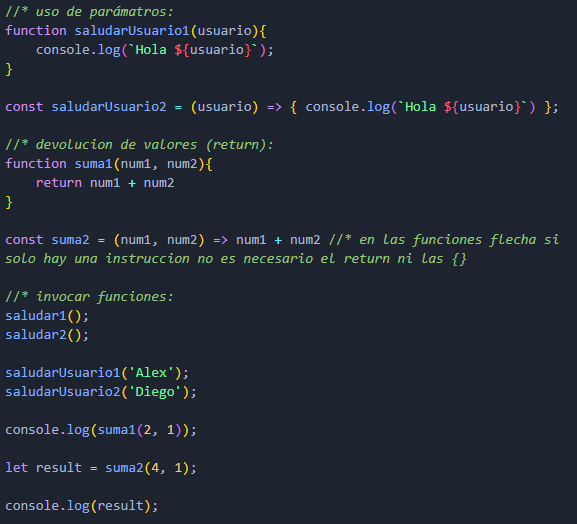
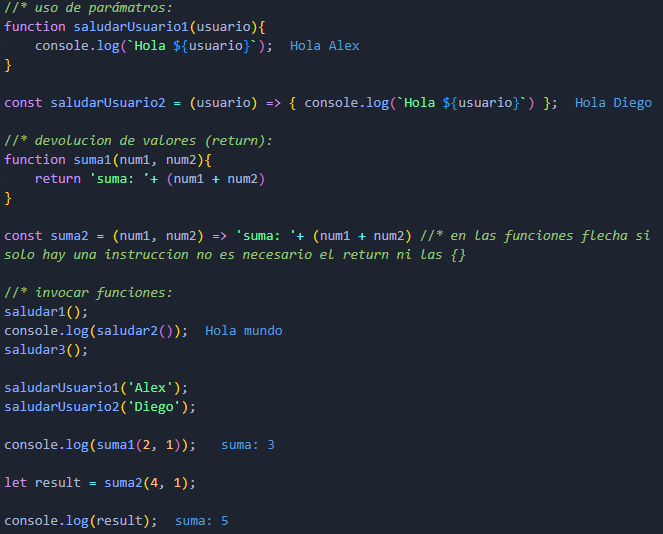
JS funciones

diff --git a/JavaScript/POO.html b/JavaScript/POO.html
@@ -37,9 +37,9 @@
                 <li>Polimorfismo.</li>
             </ul>
             <h3 class="titulo3">Clases:</h3>
-            <p>Son plantillas/modelos sobre las cuales se pueden crear objetos nuevos. Estas inician con mayúsculas y deben tener una funcion constructor, la cual contiene los parámetros mínimos que necesita un objeto para existir y asi poder dar un estado inicial a los objetos creados a partir de la clase.</p>
+            <p>Son plantillas/modelos sobre las cuales se pueden crear objetos nuevos. Estas inician con mayúsculas y deben tener una función constructor, la cual contiene los parámetros mínimos que necesita un objeto para existir y asi poder dar un estado inicial a los objetos creados a partir de la clase.</p>
             <h4 class="titulo4">Propiedades:</h4>
-            <p>Son los atributos o características de los objetos. Estas se definen tanto en los parámetros del constructor como dentro de la misma funcion para así inicializar los objetos. Tambien se pueden añadir propiedades que no esten en los parámetros pero siempre utilizando this para referenciar al objeto.</p>
+            <p>Son los atributos o características de los objetos. Estas se definen tanto en los parámetros del constructor como dentro de la misma función para así inicializar los objetos. Tambien se pueden añadir propiedades que no esten en los parámetros pero siempre utilizando this para referenciar al objeto.</p>
             <img src="../assets/images/POOJS4.webp" alt="Ejemplo clase" class="img">
             <h4 class="titulo4">Métodos:</h4>
             <p>Se denomina métodos a las funciones asociadas a los comportamientos o acciones que realizan los objetos.</p>
@@ -53,16 +53,31 @@
             <h4 class="titulo4">Mediante clases usando new:</h4>
             <img src="../assets/images/POOJS6.webp" alt="ejemplo objetos 2" class="img">
             <h3 class="titulo3">Funciones o métodos:</h3>
-            <h4 class="titulo4">Sintaxis:</h4>
-            <img src="../assets/images/POOJS2.webp" alt="Sintaxis funciones" class="img">
-            <p>Son fragmentos de código que se escriben para ejecutar una tarea y no vovler a escribir el mismo código más de una vez.</p>
+            <p>Son fragmentos de código reutilizable que se escriben para ejecutar una tarea y no volver a escribir el mismo código más de una vez.</p>
             <ul class="lista">
-                <li>Ayudan a modularizar el código.</li>
-                <li>Deben realizar solo una tarea.</li>
-                <li>Pueden recibir parámetros.</li>
-                <li>Pueden devolver valores.</li>
+                <li>Primero se deben declarar y definir.</li>
                 <li>Para utilizarlas se deben invocar.</li>
+                <li>Deben realizar solo una tarea.</li>
+                <li>Se pueden invocar todas las veces que se necesiten.</li>
+                <li>Ayudan a modularizar el código.</li>
+                <li>Pueden recibir parámetros (información de entrada).</li>
+                <li>Pueden devolver valores (return).</li>
+                <li>En JavaScript se pueden invocar funciones ya sea antes o después de que se declaren (hoisting).</li>
             </ul>
+            <h4 class="titulo4">Sintaxis:</h4>
+            <p>Para declarar funciones hay varias sintaxis:</p>
+            <dl class="lista">
+                <dt>Palabra reservada function:</dt>
+                <dd>Se utiliza la palabra function, posteriormente el nombre de la función, luego paréntesis () los cuales pueden contener parámetros opcionales, y por último, el cuerpo de la función el cual es contenido con llaves {}.</dd>
+                <dt>Funciones de tipo expresión o anónimas:</dt>
+                <dd>Se declara una variable y se define igual a la palabra function, luego paréntesis () para los parámetros y luego el cuerpo de la función. La variable es el nombre de la función.</dd>
+                <dt>Funciones de tipo Self Invoking:</dt>
+                <dd>Este tipo de funciones no tienen nombre, no se declaran con ninguna variable y solo se invocan una sola vez dentro de si mismas. Se abren paréntesis dentro de los cuales se define de forma similar a las funciones anónimas, luego despues de dichos paréntesis se abren otros paréntesis para los argumentos de la función.</dd>
+                <dt>Funciones flecha:</dt>
+                <dd>Se define una constante igual a paréntesis para los parámetros, luego se agregan los simbolos => y posteriormente se define el cuerpo de la función.</dd>
+            </dl>
+            <img src="../assets/images/POOJS2.webp" alt="Sintaxis funciones" class="img">
+            <h4 class="ejemplo">Ejemplos de funciones:</h4>
             <img src="../assets/images/POOJS3.webp" alt="ejemplos funciones" class="img">
             <h3 class="ejemplo">Ejercicio:</h3>
             <img src="../assets/images/POOJS7.webp" alt="ejercicio POO 1" class="img">

diff --git a/JavaScript/POO.js b/JavaScript/POO.js
@@ -65,8 +65,14 @@ function saludar1(){
     console.log("Hola mundo");
 }
 
-//* sintaxis con funcion flecha:
-const saludar2 = () => { console.log("Hola mundo") };
+//* sintaxis función de tipo expresión:
+let saludar2 = function(){ return "Hola mundo" };
+
+//* sintaxis función de tipo Self Invoking:
+(function(a,b){ console.log("suma: " + (a+b)) })(1, 1);
+
+//* sintaxis función flecha:
+const saludar3 = () => { console.log("Hola mundo") };
 
 //* uso de parámatros:
 function saludarUsuario1(usuario){
@@ -77,14 +83,15 @@ const saludarUsuario2 = (usuario) => { console.log(`Hola ${usuario}`) };
 
 //* devolucion de valores (return): 
 function suma1(num1, num2){
-    return num1 + num2
+    return 'suma: '+ (num1 + num2)
 }
 
-const suma2 = (num1, num2) => num1 + num2 //* en las funciones flecha si solo hay una instruccion no es necesario el return ni las {} 
+const suma2 = (num1, num2) => 'suma: '+ (num1 + num2) //* en las funciones flecha si solo hay una instruccion no es necesario el return ni las {} 
 
 //* invocar funciones:
 saludar1();
-saludar2();
+console.log(saludar2());
+saludar3();
 
 saludarUsuario1('Alex');
 saludarUsuario2('Diego');
